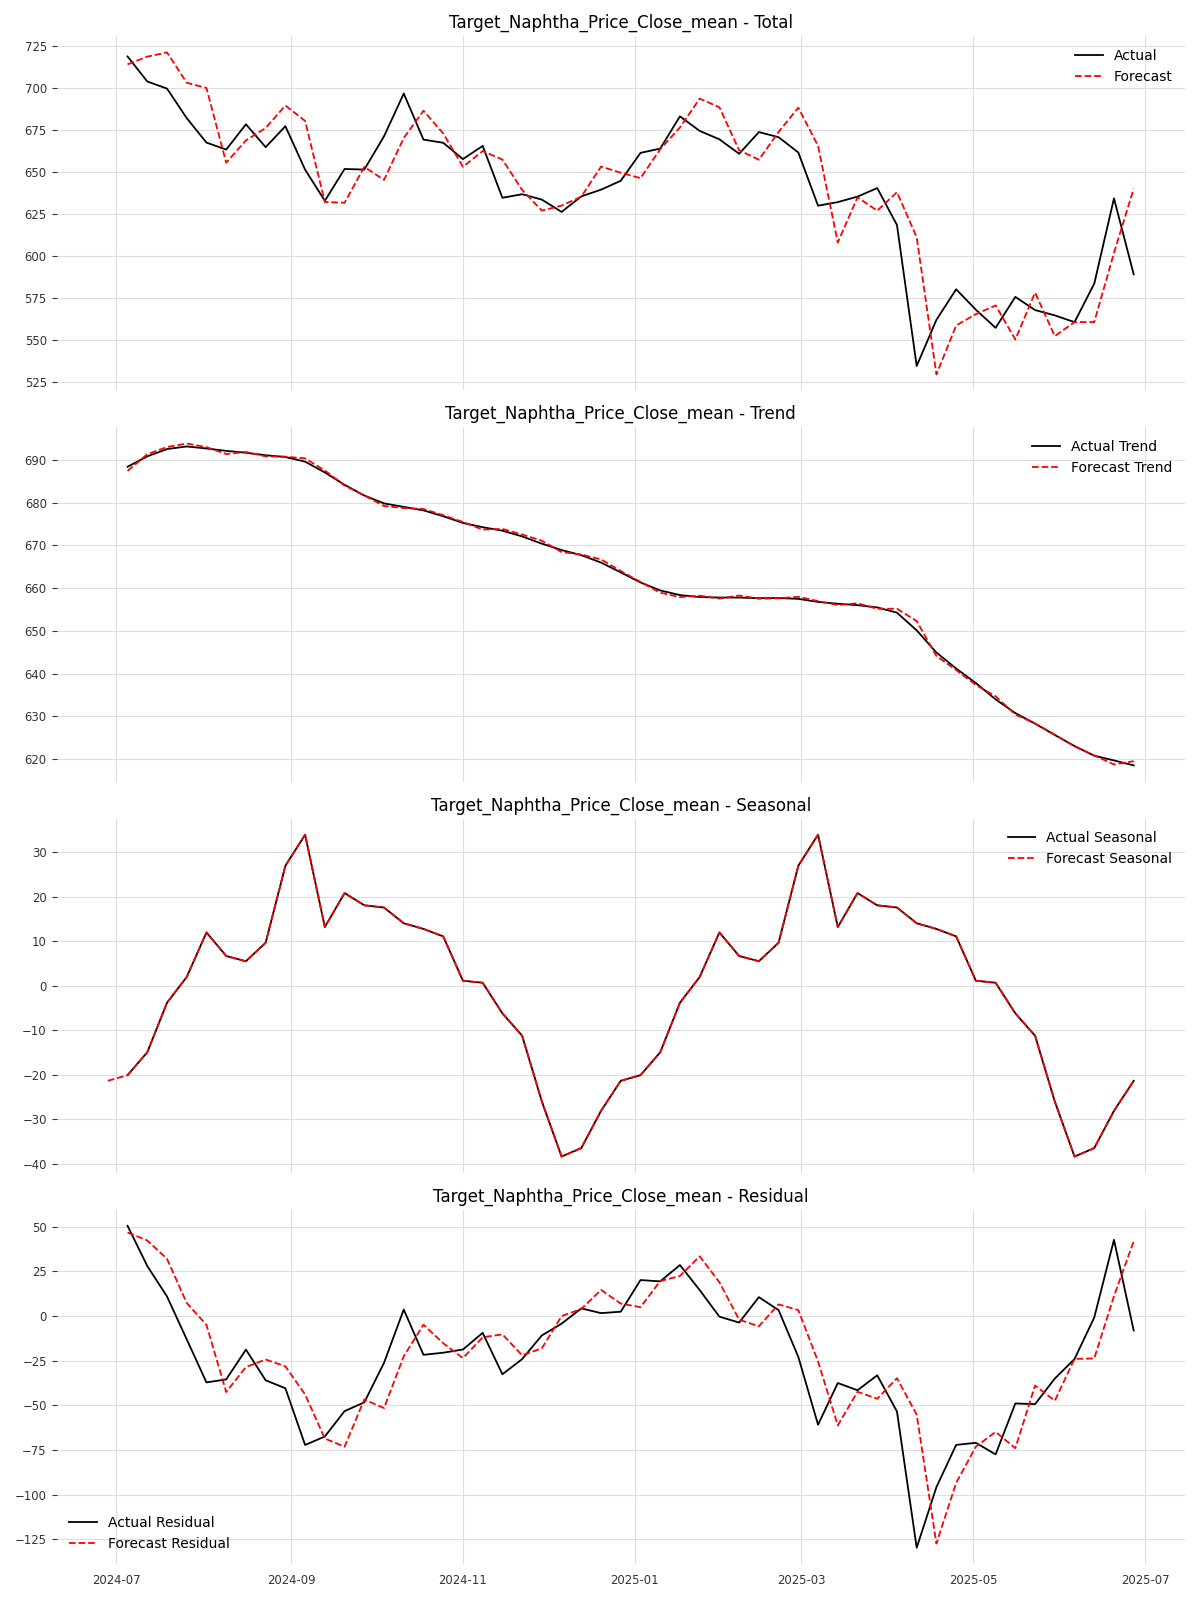
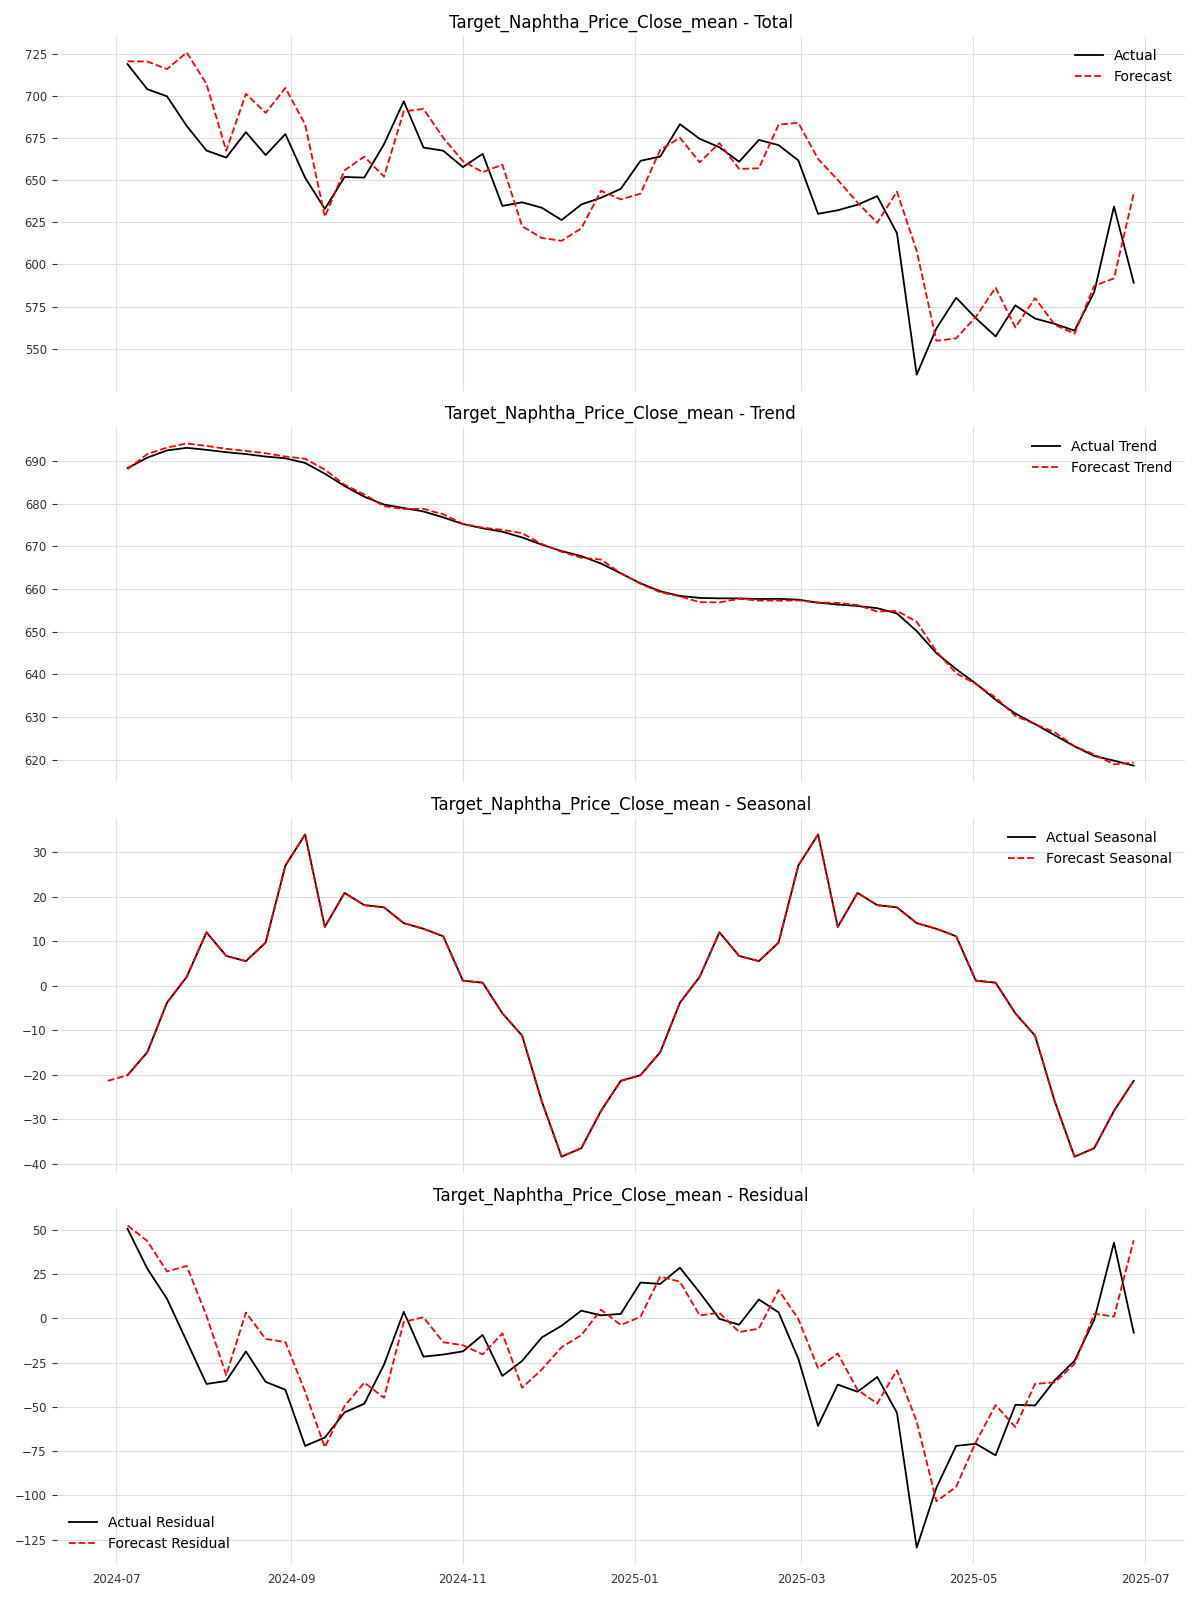
Add Upstream_Crude_Price as target
-> Insight: Crude price do not help forecasting Naptha price

diff --git a/varima_forecasting.py b/varima_forecasting.py
@@ -27,7 +27,7 @@ warnings.filterwarnings("ignore")
 # Constants
 DATA_DIR = Path("Price_Daily.csv")
 OUTPUT_DIR = Path("output/varima_run")
-TARGETS = ["Target_Naphtha_Price_Close", "Target_Ethylene_NEAsia_Price_Close"]
+TARGETS = ["Target_Ethylene_NEAsia_Price_Close", "Target_Naphtha_Price_Close", "Upstream_Crudeoil_WTI_Price_Close", "Upstream_Crudeoil_Brent_Price_Close", "Upstream_Crudeoil_Dubai_Price_Close"]
 DATE_RANGE = ["2021-02-05", "2025-06-30"]
 TEST_SPLIT_DATE = "2024-07-01"
 SEASONAL_PERIOD = 26
@@ -458,42 +458,36 @@ def run_varima_pipeline():
     
     # 3. Modeling & Forecasting
 
-    # Fit VARIMA models
-    res_pred_multi = ModelTraining.fit_and_pred_varima(
-        components, 
-        train_index=train_df.index, 
-        target_cols=targets,
-        comp_name='residual',
-        param_grid={
-            'p': [1, 2, 3],
-            'd': [0],
-            'q': [0, 1, 2],
-            'trend': ['n', 'c']
-        }
-    )
-
-    trend_pred_multi = ModelTraining.fit_and_pred_varima(
-        components, 
-        train_index=train_df.index, 
-        target_cols=targets,
-        comp_name='trend',
-        param_grid={
-            'p': [1, 2, 3],
-            'd': [1],
-            'q': [6, 7, 8],
-            'trend': ['c']
-        }
-    )
-
     # Reconstruct predictions
-    for i, target in enumerate(targets):
-        if target not in components:
-            continue
-            
-        # 1. Component Predictions
-        res_pred = res_pred_multi.univariate_component(i)
+    for i, target_cols in enumerate([targets[:2], targets[1:]]):
+        target = target_cols[0]
 
-        trend_pred = trend_pred_multi.univariate_component(i)
+        # 1. Component Predictions
+        res_pred = ModelTraining.fit_and_pred_varima(
+            components, 
+            train_index=train_df.index, 
+            target_cols=target_cols,
+            comp_name='residual',
+            param_grid={
+                'p': [1, 2, 3],
+                'd': [0],
+                'q': [0, 1, 2],
+                'trend': ['n', 'c']
+            }
+        ).univariate_component(0)
+
+        trend_pred = ModelTraining.fit_and_pred_varima(
+            components, 
+            train_index=train_df.index, 
+            target_cols=target_cols,
+            comp_name='trend',
+            param_grid={
+                'p': [1, 2, 3],
+                'd': [1],
+                'q': [6, 7, 8],
+                'trend': ['c']
+            }
+        ).univariate_component(0)
         
         seasonal_pred = ModelTraining.forecast_seasonal(
             series=components[target]['seasonal'],
